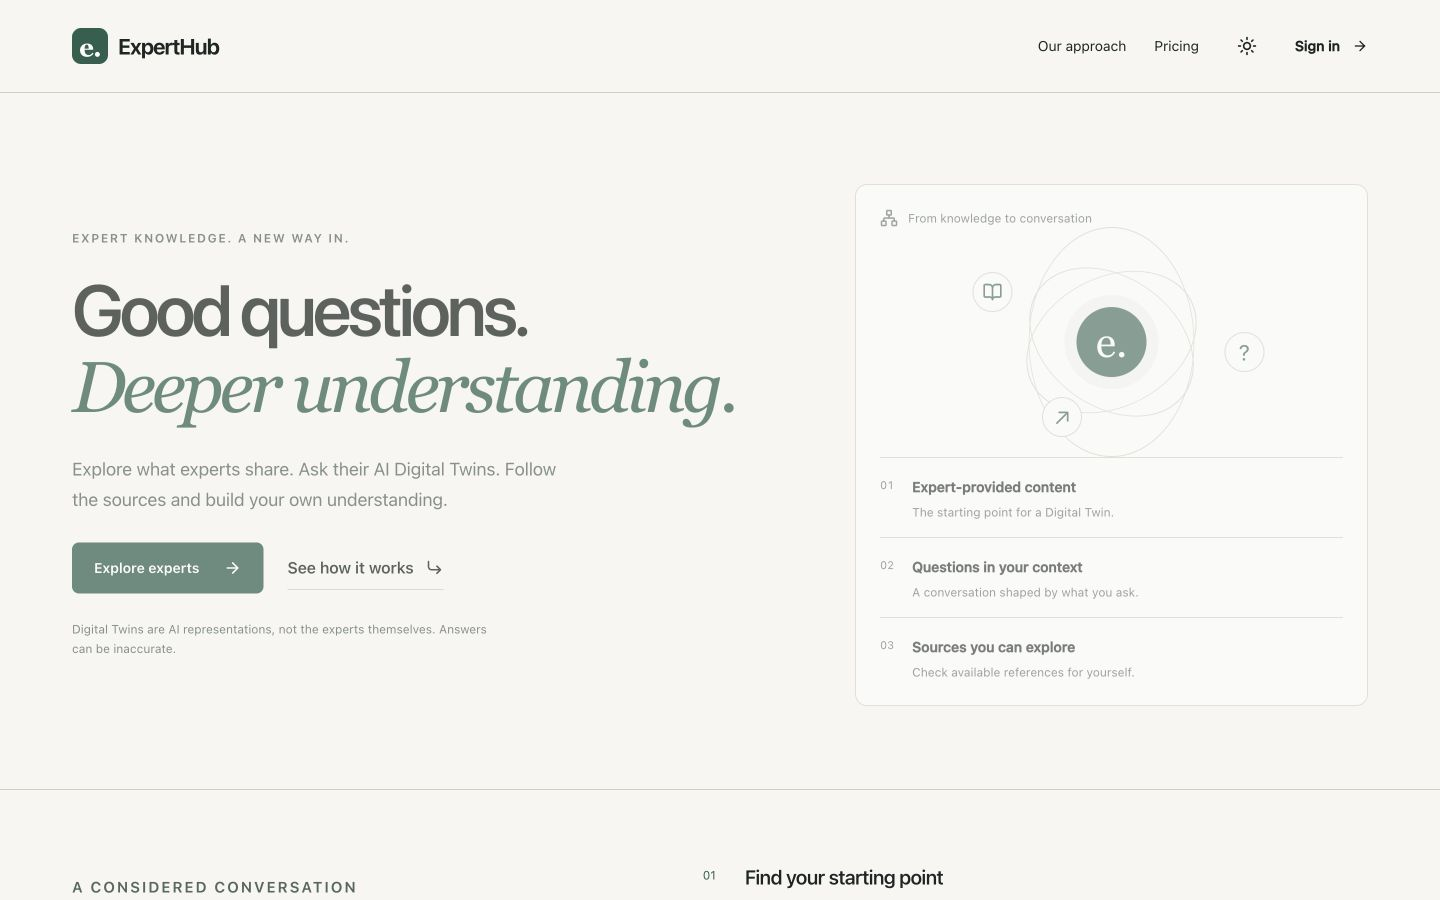
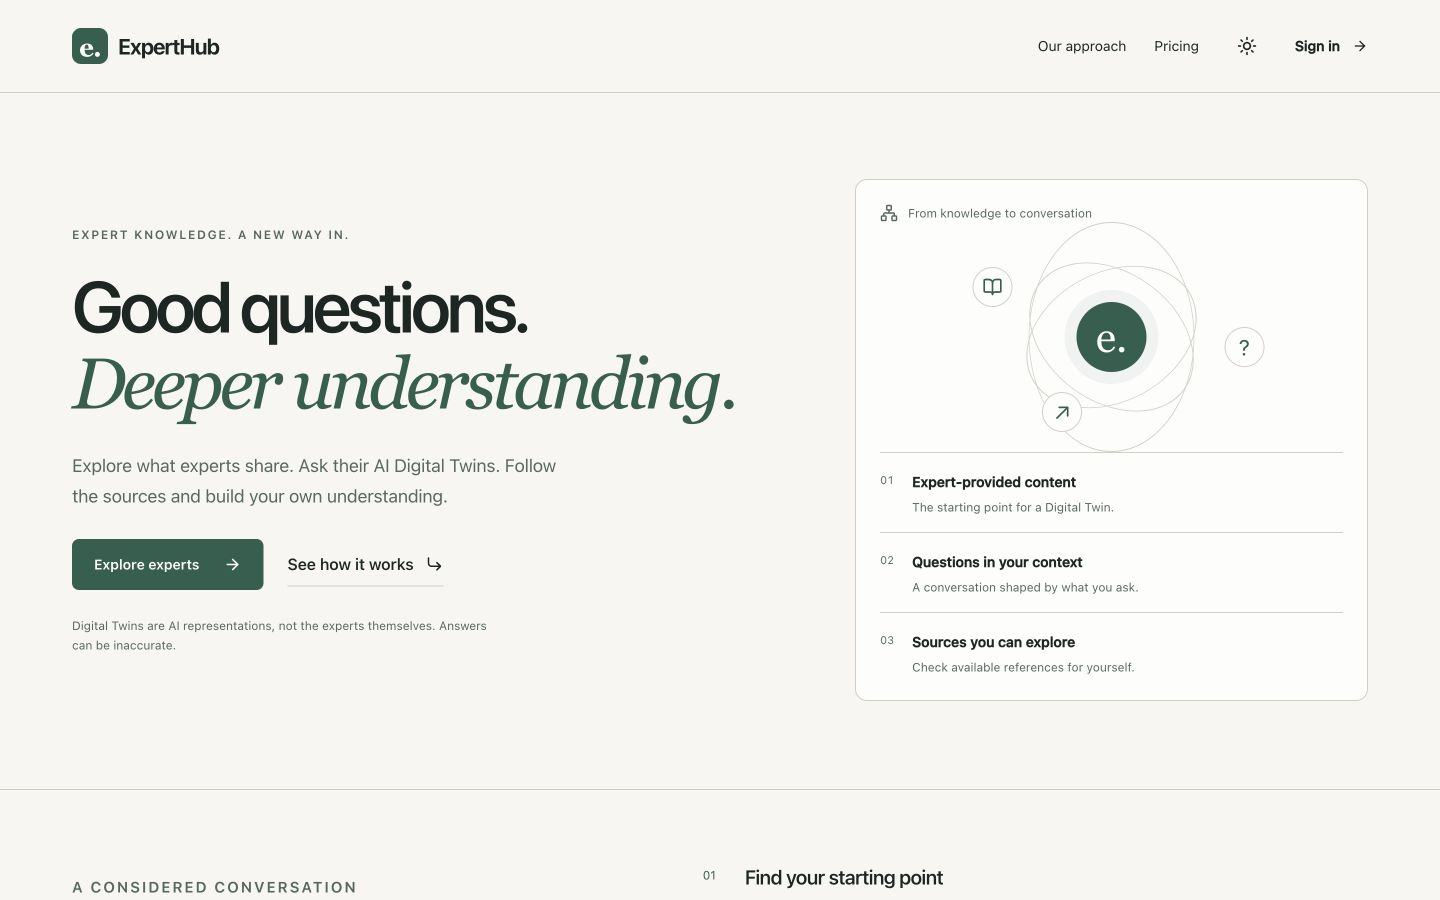
Settle design review captures and correct fixture timestamps

diff --git a/src/components/studio/fixture.tsx b/src/components/studio/fixture.tsx
@@ -1,12 +1,14 @@
 "use client";
 // Deliberately separate synthetic visual QA. No account, billing or API mutations.
-import { useState } from "react";
+import { useState, useEffect } from "react";
 import { ThemeToggle } from "@/components/layout/theme-toggle";
 import { WelcomeBanner } from "@/components/dashboard/welcome-banner";
 import { ChatMessage, type Message } from "@/components/chat/chat-message";
 import { ChatInput } from "@/components/chat/chat-input";
 import { BookOpen, MessageSquare, Bookmark, ArrowUpRight } from "lucide-react";
 export function StudioFixture(){
+ const [fixtureCreatedAt,setFixtureCreatedAt]=useState("2026-10-01T00:00:00Z");
+ useEffect(()=>setFixtureCreatedAt(new Date(Date.now()-60_000).toISOString()),[]);
  const [view,setView]=useState("dashboard"); const [messages,setMessages]=useState<Message[]>([]); const [state,setState]=useState("ready");
- return <div className="studio-workspace studio-fixture"><div className="studio-fixture-banner">LOCAL DESIGN FIXTURE · Synthetic content · No real account or AI response</div><div className="studio-fixture-shell"><aside><div className="studio-brand">e. ExpertHub</div><p className="studio-eyebrow">Your workspace</p><button onClick={()=>setView("dashboard")} aria-pressed={view==="dashboard"}><BookOpen size={18}/>Overview</button><button onClick={()=>setView("chat")} aria-pressed={view==="chat"}><MessageSquare size={18}/>Twin conversation</button><p>Fixture controls</p><label htmlFor="fixture-state">UI state</label><select id="fixture-state" value={state} onChange={e=>setState(e.target.value)}><option value="ready">Ready</option><option value="loading">Loading</option><option value="error">Error</option><option value="empty">Empty</option></select></aside><div className="studio-fixture-content"><header><span>Workspace / {view==="dashboard"?"Overview":"Conversation"}</span><ThemeToggle/></header><main><WelcomeBanner userName="Alex (fixture)" role="SUBSCRIBER"/>{state==="loading"?<div role="status" className="studio-fixture-status">Loading your workspace…</div>:state==="error"?<div role="alert" className="studio-fixture-status"><h2>We couldn’t load this workspace.</h2><p>Your work is still here. Try again when the connection returns.</p><button className="studio-button" onClick={()=>setState("ready")}>Try again</button></div>:view==="dashboard"?<><div className="studio-overview-stats">{[[BookOpen,"Subscriptions","0"],[Bookmark,"Saved posts","0"],[MessageSquare,"Conversations","0"]].map(([Icon,title,value])=>{const I=Icon as typeof BookOpen;return <div key={String(title)}><I size={20}/><p>{String(title)}</p><strong>{String(value)}</strong></div>})}</div><section className="studio-overview-library"><div><p className="studio-eyebrow">Your learning, in one place</p><h2>Start with a perspective.<br/>Follow your curiosity.</h2><p>You haven’t subscribed to an expert yet. Explore profiles and review their available plans.</p><button className="studio-button" onClick={()=>setView("chat")}>Preview a conversation <ArrowUpRight size={18}/></button></div><div className="studio-overview-note"><BookOpen size={28}/><h3>A library built around you</h3><p>Expert content, saved posts and conversations will appear here as you explore.</p></div></section></>:<section className="studio-chat studio-fixture-chat"><header><div><strong>Sample expert · Digital Twin</strong><p>AI representation · Local fixture</p></div><button onClick={()=>setMessages([])}>New chat</button></header><div className="studio-fixture-messages">{state!=="empty"&&<><ChatMessage expertName="Sample expert" userName="Alex" message={{id:"fixture-q",role:"user",content:"How should I approach a difficult decision?",createdAt:"2026-10-04T09:00:00Z"}}/><ChatMessage expertName="Sample expert" message={{id:"fixture-a",role:"assistant",content:"This is a synthetic example for design review. A useful starting point is to separate what you know from what you are assuming. Explore the evidence and consider which uncertainties matter most.",createdAt:"2026-10-04T09:00:01Z"}}/></>}{state==="empty"&&<div className="studio-fixture-status"><MessageSquare size={32}/><h2>What would you like to explore?</h2><p>Bring a question and some context.</p></div>}{messages.map(message=><ChatMessage key={message.id} expertName="Sample expert" message={message}/> )}</div><ChatInput onSend={content=>setMessages(prev=>[...prev,{id:`fixture-${prev.length}`,role:"user",content,createdAt:new Date().toISOString()}])}/><p className="studio-fixture-caution">AI can be inaccurate. Check available sources. This fixture does not call an AI model.</p></section>}</main></div></div></div>
+ return <div className="studio-workspace studio-fixture"><div className="studio-fixture-banner">LOCAL DESIGN FIXTURE · Synthetic content · No real account or AI response</div><div className="studio-fixture-shell"><aside><div className="studio-brand">e. ExpertHub</div><p className="studio-eyebrow">Your workspace</p><button onClick={()=>setView("dashboard")} aria-pressed={view==="dashboard"}><BookOpen size={18}/>Overview</button><button onClick={()=>setView("chat")} aria-pressed={view==="chat"}><MessageSquare size={18}/>Twin conversation</button><p>Fixture controls</p><label htmlFor="fixture-state">UI state</label><select id="fixture-state" value={state} onChange={e=>setState(e.target.value)}><option value="ready">Ready</option><option value="loading">Loading</option><option value="error">Error</option><option value="empty">Empty</option></select></aside><div className="studio-fixture-content"><header><span>Workspace / {view==="dashboard"?"Overview":"Conversation"}</span><ThemeToggle/></header><main><WelcomeBanner userName="Alex (fixture)" role="SUBSCRIBER"/>{state==="loading"?<div role="status" className="studio-fixture-status">Loading your workspace…</div>:state==="error"?<div role="alert" className="studio-fixture-status"><h2>We couldn’t load this workspace.</h2><p>Your work is still here. Try again when the connection returns.</p><button className="studio-button" onClick={()=>setState("ready")}>Try again</button></div>:view==="dashboard"?<><div className="studio-overview-stats">{[[BookOpen,"Subscriptions","0"],[Bookmark,"Saved posts","0"],[MessageSquare,"Conversations","0"]].map(([Icon,title,value])=>{const I=Icon as typeof BookOpen;return <div key={String(title)}><I size={20}/><p>{String(title)}</p><strong>{String(value)}</strong></div>})}</div><section className="studio-overview-library"><div><p className="studio-eyebrow">Your learning, in one place</p><h2>Start with a perspective.<br/>Follow your curiosity.</h2><p>You haven’t subscribed to an expert yet. Explore profiles and review their available plans.</p><button className="studio-button" onClick={()=>setView("chat")}>Preview a conversation <ArrowUpRight size={18}/></button></div><div className="studio-overview-note"><BookOpen size={28}/><h3>A library built around you</h3><p>Expert content, saved posts and conversations will appear here as you explore.</p></div></section></>:<section className="studio-chat studio-fixture-chat"><header><div><strong>Sample expert · Digital Twin</strong><p>AI representation · Local fixture</p></div><button onClick={()=>setMessages([])}>New chat</button></header><div className="studio-fixture-messages">{state!=="empty"&&<><ChatMessage expertName="Sample expert" userName="Alex" message={{id:"fixture-q",role:"user",content:"How should I approach a difficult decision?",createdAt:fixtureCreatedAt}}/><ChatMessage expertName="Sample expert" message={{id:"fixture-a",role:"assistant",content:"This is a synthetic example for design review. A useful starting point is to separate what you know from what you are assuming. Explore the evidence and consider which uncertainties matter most.",createdAt:fixtureCreatedAt}}/></>}{state==="empty"&&<div className="studio-fixture-status"><MessageSquare size={32}/><h2>What would you like to explore?</h2><p>Bring a question and some context.</p></div>}{messages.map(message=><ChatMessage key={message.id} expertName="Sample expert" message={message}/> )}</div><ChatInput onSend={content=>setMessages(prev=>[...prev,{id:`fixture-${prev.length}`,role:"user",content,createdAt:new Date().toISOString()}])}/><p className="studio-fixture-caution">AI can be inaccurate. Check available sources. This fixture does not call an AI model.</p></section>}</main></div></div></div>
 }

diff --git a/src/app/studio.css b/src/app/studio.css
@@ -734,31 +734,31 @@ to {
    padding-top:88px;
    padding-bottom:80px;
    border-top:0;
-   
+
 }
 .studio-faq details  {
    border-bottom:1px solid hsl(var(--border));
    padding:20px 0;
-   
+
 }
 .studio-faq summary  {
    cursor:pointer;
    font-size:17px;
    font-weight:550;
    min-height:44px;
-   
+
 }
 .studio-faq p  {
    font-size:15px;
    line-height:1.8;
    color:hsl(var(--muted-foreground));
    padding:12px 0 8px;
-   
+
 }
 .studio-auth  {
    min-height:100vh;
    background:hsl(var(--background));
-   
+
 }
 .studio-auth>header  {
    display:flex;
@@ -766,7 +766,7 @@ to {
    justify-content:space-between;
    padding:24px 5%;
    border-bottom:1px solid hsl(var(--border));
-   
+
 }
 .studio-auth>main  {
    max-width:1300px;
@@ -777,67 +777,67 @@ to {
    gap:10%;
    min-height:calc(100vh - 90px);
    padding:64px 5%;
-   
+
 }
 .studio-auth-story .studio-auth-display  {
    font-size:clamp(38px,4.5vw,64px);
    line-height:1.1;
    font-weight:500;
    letter-spacing:-.05em;
-   
+
 }
 .studio-auth-story em  {
    font-family:Georgia,serif;
    color:hsl(var(--primary));
    font-weight:400;
-   
+
 }
 .studio-auth-story>p:not(.studio-eyebrow):not(.studio-auth-display)  {
    margin-top:28px;
    color:hsl(var(--muted-foreground));
    line-height:1.7;
-   
+
 }
 .studio-auth-rule  {
    height:1px;
    background:hsl(var(--border));
    margin-top:48px;
-   
+
 }
 .studio-auth-form  {
    max-width:420px;
    width:100%;
-   
+
 }
 .studio-auth-form>div  {
    background:hsl(var(--card));
    border-color:hsl(var(--border));
    box-shadow:none;
-   
+
 }
 .studio-auth-form .bg-white  {
    background:hsl(var(--card));
-   
+
 }
 .studio-auth-form .text-slate-900,.studio-auth-form .text-gray-900  {
    color:hsl(var(--foreground));
-   
+
 }
 .studio-auth-form .text-slate-500,.studio-auth-form .text-gray-500  {
    color:hsl(var(--muted-foreground));
-   
+
 }
 .studio-auth-form button  {
    min-height:44px;
-   
+
 }
 .dark  {
    color-scheme:dark;
-   
+
 }
 :root  {
    color-scheme:light;
-   
+
 }
 
 @media(max-width:640px) {
@@ -864,4 +864,3 @@ to {
 }
 
 }
-

diff --git a/audit/ui-overhaul/verification.md b/audit/ui-overhaul/verification.md
@@ -21,10 +21,12 @@ Authenticated role screens need local mocked role/API integration QA (not a live
 
 Actual home: `home-light.jpg`, `home-dark.jpg`, `home-mobile-light.jpg`. Synthetic component fixture: `dashboard-light.jpg`, `dashboard-dark.jpg`, `chat-light.jpg`, `chat-dark.jpg`, mobile variants and `dashboard-error.jpg`. Pricing/login captures supplement review.
 
-Confirmed Library images (version 0):
-- home-light.jpg: `libfile_3714bd562a788191bf2db4017e2ae44c`, `file_00000000d8ec8208a43da02d1cfe5a37`
-- home-dark.jpg: `libfile_f07ab318c4248191b7f80163b0d58f34`, `file_00000000cd6482088ce5d4ad95816974`
-- chat-light.jpg (synthetic fixture): `libfile_7d3121a0169081918b16b64cc763d03a`, `file_0000000093ec8208b482b579b6ed08a4`
-- chat-dark.jpg (synthetic fixture): `libfile_d68e77ebf4b481919c98735cd8a7a58b`, `file_00000000a54082088d75f9f0bc126162`
+Confirmed Library images (version 1, settled captures):
+- home-light.jpg: `libfile_3714bd562a788191bf2db4017e2ae44c`, `file_0000000041108208b1df23b2d2e9437a`
+- home-dark.jpg: `libfile_f07ab318c4248191b7f80163b0d58f34`, `file_0000000028a082089814339b21c46a3c`
+- chat-light.jpg (synthetic fixture): `libfile_7d3121a0169081918b16b64cc763d03a`, `file_00000000facc8208bf28f579b5a14b33`
+- chat-dark.jpg (synthetic fixture): `libfile_d68e77ebf4b481919c98735cd8a7a58b`, `file_00000000f4688208a9a5d7572edd7677`
 
 Library prepared helper failed before any prepare call because its hosted app tool list did not expose prepare_uploads. Ordered direct-create fallback succeeded for all four; metadata applied to each local file. No signed URLs exposed.
+
+Review correction: first home-light capture was mid-animation. Replaced the same Library item after measuring both hero elements opacity 1 / zero translation. Chat timestamps now derive from the actual local runtime clock minus one minute. All four Library replacements succeeded at version 1 with xattrs persisted. Older mobile/dashboard captures are intermediate QA evidence and should not be presented as the final directional set.
